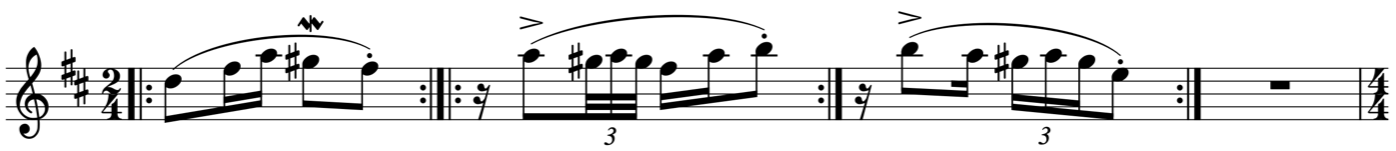
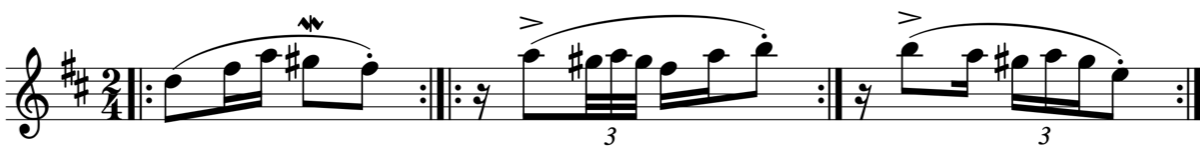
Inseri foto do GP e minha

diff --git a/Guerra-Peixe_s_academic_Trio.md b/Guerra-Peixe_s_academic_Trio.md
@@ -8,17 +8,17 @@ On the surface, the piece is illustrative of Guerra-Peixe's output in the period
 
 The opening *sonata-allegro* begins with material related to the Brazilian northeast<2> in the way the Lydian mode is employed (A1, see example 1), immediately followed by its Dorian version (A1'):
 
-![](media/media/Exemplo-1.png)
+![](media/media/Exemplo-1.jpg)
 
-Example 1: Guerra-Peixe - Trio, 1st mov., measures 1-11.
+Example 1: Guerra-Peixe - Trio, 1st mov., measures 1-11
 
 The origin of the piano part in A1 is harder to pinpoint, but that specific rhythmic structure combined with the alternation of a major second in the highest voice can be convincingly related to the "elements of the *berimbau*" that Guerra-Peixe would later affirm were present in the piece.<3>
 
 Moving on, we get to A2, derived from the cell *c* in A1. Here, the piece also shifts from D dorian (A1') to F# minor (A2), then leading to B1, in B dorian. Finally, B2, in the key of A, has the character of a closing theme and brings back the Lydian sound of A1, to which it is also thematically related:<4> 
 
-![](media/media/Exemplo-2.png)
+![](media/media/Exemplo-2.jpg)
 
-Example 2: Guerra-Peixe - Trio, 1st mov., measures 70-74.
+Example 2: Guerra-Peixe - Trio, 1st mov., measures 70-74
 
 The exposition went from D to F#, then to B and finally to A, and from the first group to the second - the foundational polarity of sonata form - the piece descends a minor third, as if going from major to relative minor, but here making a homologous move from D Lydian to B Dorian. As we can see, despite B2 being in the dominant region, the modalism present in the *Trio* takes over the role of the tonal relations in a conventional *sonata-allegro*. This serves as an entry point into a significant aspect of the piece: Guerra-Peixe stayed rooted in principles from the Western tradition while infusing them with elements of different origins; following *sonata* procedures by the book, but employing material of recognizably Brazilian character.
 
@@ -27,6 +27,9 @@ Some years later, Guerra-Peixe would affirm that he wrote the *Trio* in a delibe
 Born in 1914, Guerra-Peixe's formative years were marked by the rise of the first Modernist generation. It was a period of both aesthetic modernization and of coming to terms with the idea of a national art, and throughout the following two decades this two-fold task would converge. In this very same process, the first modernists would oppose those who came before with charges of Europeanism and traditionalism, but slowly sliding into being themselves the new established (in both senses) tradition. At least that's how many of their successors saw them. To add insult to injury, this took place through the participation of many of those modernists in the Getúlio Vargas dictatorial regime.<6>
 
 To put it bluntly, younger composers such as Guerra-Peixe tended to see the nationalist modernists as uninteresting, repetitive, and in many cases as plain sellouts. During the 1940s Guerra-Peixe joined the *Música Viva* group - centered around german composer Hans-Joachim Koellreutter - and got into twelve-tone music, first radically opposing any form of nationalism and then gradually starting to experiment with combining the two trends. His stint with dodecaphony lasted until the end of that decade, when questions about how and by whom his music would be received and its social utility started bugging him. Guerra-Peixe then plunged both into the Brazilian countryside and in a creative crisis that would eventually lead him to abandon the twelve-tone technique for good in favor of a music that fed heavily from his proto-ethnomusicological researches.<7> Having joined the nationalist bandwagon now, he would criticize his new peers by turning their own principles against them, with charges of poor knowledge of the country's traditions and lack of compositional chops.
+
+![](media/media/guerra_peixe_1950.jpg)
+Guerra-Peixe in 1950
 
 Guerra-Peixe liked to show off his knowledge of Brazilian regional cultures by ditching traditional elements of Western music in favor not only of melodic ideas and rhythms - which at that time were common currency for nationalists worldwide -, but also structures, timbres and forms he learned during the trips he took to the countryside. An eloquent example is the first movement of his *String Quartet n. 2*, from 1958: at first it may seem like an odd *sonata-allegro*, then one starts wondering if it isn't a rondo... only to finally, with some luck, find out that the composer employed the form of the *cateretê* from São Paulo. To make matters even more complicated, we are not dealing with a song form or equivalent, but with a manifestation more akin to a ritual, whose sequential development is mirrored in the piece.<8>
 
@@ -40,7 +43,7 @@ That's much less perceptible in the *Trio*. We won't find some alternative form 
 
 <2> Showing why these materials are related to specific regions of Brazil is a complex endeavor. However, we can let the composer himself speak. In the essay *Os Cabocolinhos do Recife* (GUERRA-PEIXE, C. 2007. *Estudos de folclore e música popular urbana*. Samuel Araújo (org.). Música editada. Belo Horizonte: Editora UFMG), Guerra-Peixe presents examples very similar to both B2 and A1.
 
-![](media/media/cabocolinhos.png)
+![](media/media/cabocolinhos.jpg)
  
 <3> Liner notes by the composer for the LP *Documentos da Música Brasileira*, v.17, LP 356-404-203, MEC/Secretaria de Cultura/Funarte. The *berimbau* is an instrument mostly associated with the *capoeira*, from Bahia. It plays two pitches - usually close to a major second in Western theory - that are subject to timbral variations through various playing techniques.
 
@@ -57,4 +60,7 @@ That's much less perceptible in the *Trio*. We won't find some alternative form 
 
 
 Frederico Barros is Music History professor at the Federal University of Rio de Janeiro. He has a PhD in Sociology and MPhil and BA in History. Research interests include concert and urban popular musics in the Americas, Modernism, Nationalism, Social Theory and Music and Technology.
-https://fredericobarros.com.
+
+https://fredericobarros.com
+
+![](media/media/fmb.jpg)
